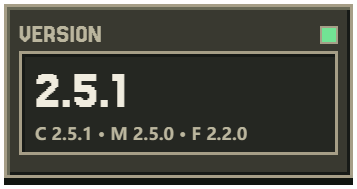
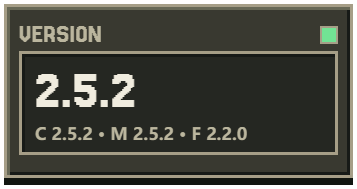
chore(release): 发布 Clash 2.5.2 与 Magpie 2.5.2

Changed region(s): [[0.3081, 0.3704, 0.4006, 0.582], [0.2157, 0.6614, 0.2773, 0.7407], [0.4622, 0.6614, 0.493, 0.7407]]

diff --git a/README.md b/README.md
@@ -12,18 +12,18 @@
 </picture>
 
 <p>
-  <a href="https://github.com/Fish-under-sea/FISH-DOCK-Plugins/releases/tag/v2.5.1"><picture><source media="(prefers-color-scheme: dark)" srcset="assets/readme/config-stat-version-zh-dark.png"><img src="assets/readme/config-stat-version-zh-light.png" alt="VERSION：2.5.1（Clash 2.5.1 / Magpie 2.5.0）" width="23%"></picture></a>
+  <a href="https://github.com/Fish-under-sea/FISH-DOCK-Plugins/releases/tag/v2.5.2"><picture><source media="(prefers-color-scheme: dark)" srcset="assets/readme/config-stat-version-zh-dark.png"><img src="assets/readme/config-stat-version-zh-light.png" alt="VERSION：2.5.2（Clash 2.5.2 / Magpie 2.5.2）" width="23%"></picture></a>
   <a href="#plugins"><picture><source media="(prefers-color-scheme: dark)" srcset="assets/readme/config-stat-desktop-zh-dark.png"><img src="assets/readme/config-stat-desktop-zh-light.png" alt="PLUGINS：三个独立插件" width="23%"></picture></a>
   <a href="#packages"><picture><source media="(prefers-color-scheme: dark)" srcset="assets/readme/config-stat-mail-zh-dark.png"><img src="assets/readme/config-stat-mail-zh-light.png" alt="PACKAGES：三个 npm 单包" width="23%"></picture></a>
   <a href="https://github.com/Fish-under-sea/FISH-Dock"><picture><source media="(prefers-color-scheme: dark)" srcset="assets/readme/config-stat-channels-zh-dark.png"><img src="assets/readme/config-stat-channels-zh-light.png" alt="HOST API：1，兼容 FISH Dock 2.0.0+" width="23%"></picture></a>
 </p>
 
-<p><img src="https://img.shields.io/badge/Node.js-24.14%2B-8fd6a0?style=flat-square&amp;logo=nodedotjs&amp;logoColor=white&amp;labelColor=5a544a" alt="Node.js 24.14+"> <img src="https://img.shields.io/badge/Adapter%20License-MIT-8fd6a0?style=flat-square&amp;labelColor=5a544a" alt="插件适配代码许可 MIT"> <img src="https://img.shields.io/badge/mihomo-GPL--3.0-f08a5d?style=flat-square&amp;labelColor=5a544a" alt="随包 mihomo 许可 GPL-3.0"> <img src="https://img.shields.io/badge/Clash-2.5.1-8fd6a0?style=flat-square&amp;labelColor=5a544a" alt="Clash 2.5.1"> <img src="https://img.shields.io/badge/Magpie-2.5.0-8fd6a0?style=flat-square&amp;labelColor=5a544a" alt="Magpie 2.5.0"></p>
+<p><img src="https://img.shields.io/badge/Node.js-24.14%2B-8fd6a0?style=flat-square&amp;logo=nodedotjs&amp;logoColor=white&amp;labelColor=5a544a" alt="Node.js 24.14+"> <img src="https://img.shields.io/badge/Adapter%20License-MIT-8fd6a0?style=flat-square&amp;labelColor=5a544a" alt="插件适配代码许可 MIT"> <img src="https://img.shields.io/badge/mihomo-GPL--3.0-f08a5d?style=flat-square&amp;labelColor=5a544a" alt="随包 mihomo 许可 GPL-3.0"> <img src="https://img.shields.io/badge/Clash-2.5.2-8fd6a0?style=flat-square&amp;labelColor=5a544a" alt="Clash 2.5.2"> <img src="https://img.shields.io/badge/Magpie-2.5.2-8fd6a0?style=flat-square&amp;labelColor=5a544a" alt="Magpie 2.5.2"></p>
 <p><strong>FISH Plugins &amp; Configuration · 插件配置仓</strong><br>官方插件、配置说明与发行入口；按需安装，独立运行。</p>
 
 <p>
   <a href="#get-started"><picture><source media="(prefers-color-scheme: dark)" srcset="assets/readme/key-download-zh-dark.png"><img src="assets/readme/key-download-zh-light.png" alt="下载 / Releases" height="40"></picture></a>
-  <a href="https://github.com/Fish-under-sea/FISH-DOCK-Plugins/releases/tag/v2.5.1"><picture><source media="(prefers-color-scheme: dark)" srcset="assets/readme/key-release-zh-dark.png"><img src="assets/readme/key-release-zh-light.png" alt="更新记录" height="40"></picture></a>
+  <a href="https://github.com/Fish-under-sea/FISH-DOCK-Plugins/releases/tag/v2.5.2"><picture><source media="(prefers-color-scheme: dark)" srcset="assets/readme/key-release-zh-dark.png"><img src="assets/readme/key-release-zh-light.png" alt="更新记录" height="40"></picture></a>
   <a href="https://github.com/Fish-under-sea/FISH-DOCK-Plugins/issues"><picture><source media="(prefers-color-scheme: dark)" srcset="assets/readme/key-issues-zh-dark.png"><img src="assets/readme/key-issues-zh-light.png" alt="反馈 / Issues" height="40"></picture></a>
 </p>
 
@@ -35,18 +35,18 @@
 
 每个插件独立保存配置与凭据，按需启动，不共享业务密钥。插件仓只发布插件资源，桌面安装包请前往 [FISH-Dock](https://github.com/Fish-under-sea/FISH-Dock) 。
 
-当前发行（以 `catalog/stable.json` 为唯一权威）：Clash **2.5.1**（内置 mihomo 1.19.34，要求 FISH Dock ≥ 2.0.0）、Magpie **2.5.0**（要求 FISH Dock ≥ 2.3.4）、飞书 **2.2.0**；详见 [2.5.1 发行说明](docs/releases/2.5.1.md) 。
+当前发行（以 `catalog/stable.json` 为唯一权威）：Clash **2.5.2**（内置 mihomo 1.19.34，要求 FISH Dock ≥ 2.0.0）、Magpie **2.5.2**（`v0.1.4709+fish.51`，要求 FISH Dock ≥ 2.3.4）、飞书 **2.2.0**；详见 [2.5.2 发行说明](docs/releases/2.5.2.md) 。
 
 **最近版本**（仅展示最近 3 版；完整历史见 [历史发行说明](docs/releases) 与 [GitHub Releases](https://github.com/Fish-under-sea/FISH-DOCK-Plugins/releases) ）
 
+- **2.5.2** · 双插件联发：Magpie（`v0.1.4709+fish.51`）追平上游并重扫 165 条液态玻璃规则；Clash 加固 Windows TUN 服务（墙钟 15s 宿主宽限 + 休眠唤醒 25s 宽限 + `sc.exe` 瞬态 `unknown` 保护 + `ProgramData` 托管内核副本按 SHA-256 免重复 UAC 重装 + 看门狗轻量 `schtasks` 注销 + 脱敏 `tmp/mihomo.log`），并全面对标 Clash Verge 优化 DNS / `gvisor` 默认栈 / 开关可控 `strict-route` / 切节点自动 `DELETE /connections` 及单订阅原生 YAML 安全白名单合并。→ [说明](docs/releases/2.5.2.md)
 - **2.5.1** · Clash 独立补丁：修复 `mihomo v1.19+` 下 `proxy-providers` 节点测速超时（合并 `/providers/proxies` 并路由至 `healthcheck`），环境变量代理默认跟随 `tun.enable` 并在切 TUN / 卸载服务 / 停机 / 意外退出时自动关闭还原，同步重构概览「网络设置」对齐与「代理模式」当前网络状态子卡。→ [说明](docs/releases/2.5.1.md)
 - **2.5.0** · Magpie（`v0.1.4650+fish.50`）追平上游并重扫 165 条玻璃表面规则，接入 Dock 液态玻璃与字体「跟随」联动，玻璃模式下顶部服务条自动透明并收敛强调色对玻璃底色的染色；Clash 内置 mihomo 升级至 `v1.19.34`，新增显式环境变量代理开关（`HTTP_PROXY` / `HTTPS_PROXY` / `NO_PROXY` 及看门狗租约还原），同步接入 Dock「跟随」并补齐深色字体单独设置。→ [说明](docs/releases/2.5.0.md)
-- **2.4.9** · Magpie（`v0.1.4530+fish.49`）追平上游并重扫 163 条液态玻璃表面规则；Clash 修复严格沙箱 CSP 下壁纸上传失败问题（改用 `createImageBitmap` 与 `FileReader` 兜底），拆分格式、解码与超限报错文案。→ [说明](docs/releases/2.4.9.md)
-- **2.4.8 及更早** · 见 [历史发行说明](docs/releases) 与 [GitHub Releases](https://github.com/Fish-under-sea/FISH-DOCK-Plugins/releases) （`docs/releases/` 历史原文全部完整保留）。
+- **2.4.9 及更早** · 见 [历史发行说明](docs/releases) 与 [GitHub Releases](https://github.com/Fish-under-sea/FISH-DOCK-Plugins/releases) （`docs/releases/` 历史原文全部完整保留）。
 
 > ⚠ **2.0.0 是 breaking 版本**：插件清单新增 `behaviors` 字段，FISH Dock 1.2.3 及更早的宿主用 `deny_unknown_fields` 解析，会以「plugin.json 格式无效或含未知字段」直接拒装。**旧宿主请先把 Dock 升到 2.0.0**，再安装这些插件。
 
-> ⚠ npm 上 `@fish-under-sea/fish-dock-plugin-clash@1.1.0` 为误发版本（基于旧基线，缺少 1.0.4 的多订阅修复），请勿使用；当前 Clash 为 `2.5.1`、Magpie 为 `2.5.0`、飞书是 `2.2.0`，OFM 停在 `2.0.1`（已退役）。
+> ⚠ npm 上 `@fish-under-sea/fish-dock-plugin-clash@1.1.0` 为误发版本（基于旧基线，缺少 1.0.4 的多订阅修复），请勿使用；当前 Clash 为 `2.5.2`、Magpie 为 `2.5.2`、飞书是 `2.2.0`，OFM 停在 `2.0.1`（已退役）。
 
 <h2 id="plugins"><picture><source media="(prefers-color-scheme: dark)" srcset="assets/readme/section-features-dark.png"><img src="assets/readme/section-features-light.png" alt="PLUGINS · 三个插件" width="100%"></picture></h2>
 
@@ -74,7 +74,7 @@
 
 <h2 id="get-started"><picture><source media="(prefers-color-scheme: dark)" srcset="assets/readme/section-install-dark.png"><img src="assets/readme/section-install-light.png" alt="INSTALL · 安装使用" width="100%"></picture></h2>
 
-安装前先核对宿主版本：Clash 是 2.5.1、Magpie 是 2.5.0（要求 FISH Dock ≥ 2.3.4）、飞书是 2.2.0，**FISH Dock 需要 2.0.0 及以上**；1.2.3 及更早的宿主会因清单里的 `behaviors` 字段拒装。
+安装前先核对宿主版本：Clash 是 2.5.2、Magpie 是 2.5.2（要求 FISH Dock ≥ 2.3.4）、飞书是 2.2.0，**FISH Dock 需要 2.0.0 及以上**；1.2.3 及更早的宿主会因清单里的 `behaviors` 字段拒装。
 
 **方式一：Dock 内插件市场（推荐）**
 
@@ -93,22 +93,22 @@
 | 插件 | GitHub 包 | npm 单包 |
 | --- | --- | --- |
 | 飞书 2.2.0 | [`feishu.fish-plugin`](https://github.com/Fish-under-sea/FISH-DOCK-Plugins/releases/download/v2.2.0/feishu.fish-plugin) | [`@fish-under-sea/fish-dock-plugin-feishu`](https://www.npmjs.com/package/@fish-under-sea/fish-dock-plugin-feishu/v/2.2.0) |
-| Clash 2.5.1 | [`clash.fish-plugin`](https://github.com/Fish-under-sea/FISH-DOCK-Plugins/releases/download/v2.5.1/clash.fish-plugin) | [`@fish-under-sea/fish-dock-plugin-clash`](https://www.npmjs.com/package/@fish-under-sea/fish-dock-plugin-clash/v/2.5.1) |
-| Magpie 2.5.0 | [`magpie.fish-plugin`](https://github.com/Fish-under-sea/FISH-DOCK-Plugins/releases/download/v2.5.0/magpie.fish-plugin) | [`@fish-under-sea/fish-dock-plugin-magpie`](https://www.npmjs.com/package/@fish-under-sea/fish-dock-plugin-magpie/v/2.5.0) |
+| Clash 2.5.2 | [`clash.fish-plugin`](https://github.com/Fish-under-sea/FISH-DOCK-Plugins/releases/download/v2.5.2/clash.fish-plugin) | [`@fish-under-sea/fish-dock-plugin-clash`](https://www.npmjs.com/package/@fish-under-sea/fish-dock-plugin-clash/v/2.5.2) |
+| Magpie 2.5.2 | [`magpie.fish-plugin`](https://github.com/Fish-under-sea/FISH-DOCK-Plugins/releases/download/v2.5.2/magpie.fish-plugin) | [`@fish-under-sea/fish-dock-plugin-magpie`](https://www.npmjs.com/package/@fish-under-sea/fish-dock-plugin-magpie/v/2.5.2) |
 
 <h2 id="packages"><picture><source media="(prefers-color-scheme: dark)" srcset="assets/readme/section-packages-dark.png"><img src="assets/readme/section-packages-light.png" alt="PACKAGES · npm 单包" width="100%"></picture></h2>
 
-每个 npm 包只包含一个对应的插件归档和下载 CLI（bin 名 `fish-dock-plugin-<插件>`），不运行安装后脚本，不修改 Dock 或系统设置。当前 npm 上 **Clash 是 2.5.1、Magpie 是 2.5.0、飞书是 2.2.0**（OFM 单包停在 2.0.1，已退役只供手动下载），要求 **Node.js ≥ 24** 与 **FISH Dock ≥ 2.0.0**。
+每个 npm 包只包含一个对应的插件归档和下载 CLI（bin 名 `fish-dock-plugin-<插件>`），不运行安装后脚本，不修改 Dock 或系统设置。当前 npm 上 **Clash 是 2.5.2、Magpie 是 2.5.2、飞书是 2.2.0**（OFM 单包停在 2.0.1，已退役只供手动下载），要求 **Node.js ≥ 24** 与 **FISH Dock ≥ 2.0.0**。
 
 | npm 单包（完整包名） | 版本 | bin | `npm pack` 体积 |
 | --- | --- | --- | --- |
 | `@fish-under-sea/fish-dock-plugin-feishu` | 2.2.0 | `fish-dock-plugin-feishu` | 38.6 kB（6 个文件） |
-| `@fish-under-sea/fish-dock-plugin-clash` | 2.5.1 | `fish-dock-plugin-clash` | 27.4 MB（7 个文件，含 mihomo 许可） |
-| `@fish-under-sea/fish-dock-plugin-magpie` | 2.5.0 | `fish-dock-plugin-magpie` | 55.3 MB（7 个文件，含 Magpie 许可） |
+| `@fish-under-sea/fish-dock-plugin-clash` | 2.5.2 | `fish-dock-plugin-clash` | 27.4 MB（7 个文件，含 mihomo 许可） |
+| `@fish-under-sea/fish-dock-plugin-magpie` | 2.5.2 | `fish-dock-plugin-magpie` | 55.9 MB（7 个文件，含 Magpie 许可） |
 | `@fish-under-sea/fish-dock-plugin-ofm` | 2.0.1（暂停维护，仅手动） | `fish-dock-plugin-ofm` | 1.9 MB（6 个文件） |
 
 ```powershell
-npm install @fish-under-sea/fish-dock-plugin-clash@2.5.1
+npm install @fish-under-sea/fish-dock-plugin-clash@2.5.2
 npx @fish-under-sea/fish-dock-plugin-clash --out C:/work/plugins
 ```
 
@@ -139,7 +139,7 @@ node --test --test-isolation=none 'plugins/feishu/*.test.mjs' 'plugins/clash/*.t
 | [自编译 Magpie](plugins/magpie/tools/README.md) | 补丁清单与每一处为什么补、构建命令、版本标识、跟着上游升级时会踩的坑 |
 | [签到&探针说明](https://github.com/Fish-under-sea/magpie-checkin-relay-probe) | 宿主提供哪些读与调用、「预装插件美化」开关怎么工作、素材为什么编进 exe |
 | [厂商素材来源](https://github.com/Fish-under-sea/magpie-checkin-relay-probe/tree/main/page/checkin/logos) | 每张厂商图的来源、裁切范围与授权状况 |
-| [发行说明](docs/releases/) | 逐版本的改动与验证；最新是 [2.5.1](docs/releases/2.5.1.md) |
+| [发行说明](docs/releases/) | 逐版本的改动与验证；最新是 [2.5.2](docs/releases/2.5.2.md) |
 | [第三方许可](THIRD_PARTY_NOTICES.md) | 随包运行时的许可与来源（mihomo 的 GPL-3.0、Magpie 的随包许可等） |
 | [README 头图维护](assets/readme/MAINTAINING.md) | 头图怎么渲染、字号与卡片尺寸的约束、哪些东西不能换 |
 
@@ -153,7 +153,7 @@ node --test --test-isolation=none 'plugins/feishu/*.test.mjs' 'plugins/clash/*.t
 
 整个 Magpie 插件的地基。供应商注册、页面与面板桥、签到与额度读取、网关路由，全部是上游的代码；本仓写着「Magpie 插件」的那层，实际上只是它的适配层、页面与发布工具。
 
-本仓发布的 `magpie.fish-plugin` 走的是**其源码自编译**：基线上游 tag（当前 `v0.1.4650`），加上 `patches/` 里我们自己的累计补丁（当前累计至 `fish.50`：追平上游 `v0.1.4650` 并重扫 165 条液态玻璃表面规则，新增 Dock 液态玻璃与字体「跟随」联动、玻璃模式下顶部服务条自动透明并收敛强调色对玻璃底色的染色，延续全页面液态玻璃与自定义字体调色命中、Obsidian 记忆 Agent 与紫色晶石图标、`magpie.call` 通道与本地素材接管等增强）。补丁的每一处、为什么补、怎么复现，都写在 [plugins/magpie/tools/README.md](plugins/magpie/tools/README.md) 里。上游的版本标识与第三方声明随包保留（`licenses/Magpie.txt`）。
+本仓发布的 `magpie.fish-plugin` 走的是**其源码自编译**：基线上游 tag（当前 `v0.1.4709`），加上 `patches/` 里我们自己的累计补丁（当前累计至 `fish.51`：追平上游 `v0.1.4709` 并重扫 165 条液态玻璃表面规则，延续 Dock 液态玻璃与字体「跟随」联动、玻璃模式下顶部服务条自动透明与强调色收敛、全页面液态玻璃与自定义字体调色命中、Obsidian 记忆 Agent 与紫色晶石图标、`magpie.call` 通道与本地素材接管等增强）。补丁的每一处、为什么补、怎么复现，都写在 [plugins/magpie/tools/README.md](plugins/magpie/tools/README.md) 里。上游的版本标识与第三方声明随包保留（`licenses/Magpie.txt`）。
 
 ### [mihomo](https://github.com/MetaCubeX/mihomo) · Clash 内核
 

diff --git a/README.en.md b/README.en.md
@@ -12,18 +12,18 @@
 </picture>
 
 <p>
-  <a href="https://github.com/Fish-under-sea/FISH-DOCK-Plugins/releases/tag/v2.5.1"><picture><source media="(prefers-color-scheme: dark)" srcset="assets/readme/config-stat-version-en-dark.png"><img src="assets/readme/config-stat-version-en-light.png" alt="VERSION: 2.5.1 (Clash 2.5.1 / Magpie 2.5.0)" width="23%"></picture></a>
+  <a href="https://github.com/Fish-under-sea/FISH-DOCK-Plugins/releases/tag/v2.5.2"><picture><source media="(prefers-color-scheme: dark)" srcset="assets/readme/config-stat-version-en-dark.png"><img src="assets/readme/config-stat-version-en-light.png" alt="VERSION: 2.5.2 (Clash 2.5.2 / Magpie 2.5.2)" width="23%"></picture></a>
   <a href="#plugins"><picture><source media="(prefers-color-scheme: dark)" srcset="assets/readme/config-stat-desktop-en-dark.png"><img src="assets/readme/config-stat-desktop-en-light.png" alt="PLUGINS: 3 independent plugins" width="23%"></picture></a>
   <a href="#packages"><picture><source media="(prefers-color-scheme: dark)" srcset="assets/readme/config-stat-mail-en-dark.png"><img src="assets/readme/config-stat-mail-en-light.png" alt="PACKAGES: 3 npm single packages" width="23%"></picture></a>
   <a href="https://github.com/Fish-under-sea/FISH-Dock"><picture><source media="(prefers-color-scheme: dark)" srcset="assets/readme/config-stat-channels-en-dark.png"><img src="assets/readme/config-stat-channels-en-light.png" alt="HOST API: 1, FISH Dock 2.0.0+" width="23%"></picture></a>
 </p>
 
-<p><img src="https://img.shields.io/badge/Node.js-24.14%2B-8fd6a0?style=flat-square&amp;logo=nodedotjs&amp;logoColor=white&amp;labelColor=5a544a" alt="Node.js 24.14+"> <img src="https://img.shields.io/badge/Adapter%20License-MIT-8fd6a0?style=flat-square&amp;labelColor=5a544a" alt="Adapter License MIT"> <img src="https://img.shields.io/badge/mihomo-GPL--3.0-f08a5d?style=flat-square&amp;labelColor=5a544a" alt="Bundled mihomo License GPL-3.0"> <img src="https://img.shields.io/badge/Clash-2.5.1-8fd6a0?style=flat-square&amp;labelColor=5a544a" alt="Clash 2.5.1"> <img src="https://img.shields.io/badge/Magpie-2.5.0-8fd6a0?style=flat-square&amp;labelColor=5a544a" alt="Magpie 2.5.0"></p>
+<p><img src="https://img.shields.io/badge/Node.js-24.14%2B-8fd6a0?style=flat-square&amp;logo=nodedotjs&amp;logoColor=white&amp;labelColor=5a544a" alt="Node.js 24.14+"> <img src="https://img.shields.io/badge/Adapter%20License-MIT-8fd6a0?style=flat-square&amp;labelColor=5a544a" alt="Adapter License MIT"> <img src="https://img.shields.io/badge/mihomo-GPL--3.0-f08a5d?style=flat-square&amp;labelColor=5a544a" alt="Bundled mihomo License GPL-3.0"> <img src="https://img.shields.io/badge/Clash-2.5.2-8fd6a0?style=flat-square&amp;labelColor=5a544a" alt="Clash 2.5.2"> <img src="https://img.shields.io/badge/Magpie-2.5.2-8fd6a0?style=flat-square&amp;labelColor=5a544a" alt="Magpie 2.5.2"></p>
 <p><strong>FISH Plugins &amp; Configuration</strong><br>Official FISH Dock plugins, configuration guides, and release packages; install on demand, isolated per plugin.</p>
 
 <p>
   <a href="#get-started"><picture><source media="(prefers-color-scheme: dark)" srcset="assets/readme/config-key-download-en-dark.png"><img src="assets/readme/config-key-download-en-light.png" alt="Downloads" height="40"></picture></a>
-  <a href="https://github.com/Fish-under-sea/FISH-DOCK-Plugins/releases/tag/v2.5.1"><picture><source media="(prefers-color-scheme: dark)" srcset="assets/readme/config-key-release-en-dark.png"><img src="assets/readme/config-key-release-en-light.png" alt="Changelog" height="40"></picture></a>
+  <a href="https://github.com/Fish-under-sea/FISH-DOCK-Plugins/releases/tag/v2.5.2"><picture><source media="(prefers-color-scheme: dark)" srcset="assets/readme/config-key-release-en-dark.png"><img src="assets/readme/config-key-release-en-light.png" alt="Changelog" height="40"></picture></a>
   <a href="https://github.com/Fish-under-sea/FISH-DOCK-Plugins/issues"><picture><source media="(prefers-color-scheme: dark)" srcset="assets/readme/config-key-issues-en-dark.png"><img src="assets/readme/config-key-issues-en-light.png" alt="Issues" height="40"></picture></a>
 </p>
 
@@ -35,18 +35,18 @@ This repository hosts the three official plugins for FISH Dock along with config
 
 Each plugin stores its configuration and credentials in an isolated namespace, starts on demand, and never shares secrets across plugins. This repository publishes plugin packages only; desktop installers live in [FISH-Dock](https://github.com/Fish-under-sea/FISH-Dock).
 
-Current release (`catalog/stable.json` is the single source of truth): Clash **2.5.1** (bundles mihomo 1.19.34, requires FISH Dock ≥ 2.0.0), Magpie **2.5.0** (requires FISH Dock ≥ 2.3.4), and Feishu **2.2.0**; see [2.5.1 Release Notes](docs/releases/2.5.1.md).
+Current release (`catalog/stable.json` is the single source of truth): Clash **2.5.2** (bundles mihomo 1.19.34, requires FISH Dock ≥ 2.0.0), Magpie **2.5.2** (`v0.1.4709+fish.51`, requires FISH Dock ≥ 2.3.4), and Feishu **2.2.0**; see [2.5.2 Release Notes](docs/releases/2.5.2.md).
 
 **Recent Releases** (showing the latest 3 releases; full history in [Release Notes](docs/releases) and [GitHub Releases](https://github.com/Fish-under-sea/FISH-DOCK-Plugins/releases))
 
+- **2.5.2** · Joint release: Magpie (`v0.1.4709+fish.51`) catches up with upstream and refreshes 165 liquid-glass surface rules; Clash hardens the Windows TUN service (wall-clock 15s host grace, 25s power-resume grace, `sc.exe` transient `unknown` protection, SHA-256-verified managed kernel copy under `ProgramData` avoiding UAC reinstalls on upgrades, lightweight `schtasks` watchdog stop, and redacted `tmp/mihomo.log`) and aligns runtime speed/config with Clash Verge (fast DNS, `gvisor` default stack, optional `strict-route`, auto `DELETE /connections` on switch, and safe allowlisted native single-subscription YAML merge). → [Notes](docs/releases/2.5.2.md)
 - **2.5.1** · Clash patch release: fixes `mihomo v1.19+` `proxy-providers` latency test timeouts (merges `/providers/proxies` and routes checks through `healthcheck`), defaults `envProxy` to `tun.enable` with automatic restore across TUN switches/uninstall/stop/service exits, and redesigns the Overview Network Settings alignment plus Proxy Mode live routing card. → [Notes](docs/releases/2.5.1.md)
 - **2.5.0** · Magpie (`v0.1.4650+fish.50`) catches up with upstream and refreshes 165 liquid-glass surface rules, adds Dock glass/font "Follow" hook integration, makes the top service bar transparent in glass mode, and stops accent color from tinting glass panels; Clash upgrades bundled mihomo to `v1.19.34`, adds an explicit user environment-proxy toggle (`HTTP_PROXY` / `HTTPS_PROXY` / `NO_PROXY` with watchdog lease restore), connects Dock "Follow" glass/font modes, and adds separate dark-mode font colors. → [Notes](docs/releases/2.5.0.md)
-- **2.4.9** · Magpie (`v0.1.4530+fish.49`) catches up with upstream and refreshes 163 liquid-glass surface rules; Clash fixes strict sandbox CSP wallpaper upload failures (switching to `createImageBitmap` with `FileReader` fallback) and splits format, decode, and size-limit error messages. → [Notes](docs/releases/2.4.9.md)
-- **2.4.8 and earlier** · See [Release Notes](docs/releases) and [GitHub Releases](https://github.com/Fish-under-sea/FISH-DOCK-Plugins/releases) (all historical release notes in `docs/releases/` remain intact).
+- **2.4.9 and earlier** · See [Release Notes](docs/releases) and [GitHub Releases](https://github.com/Fish-under-sea/FISH-DOCK-Plugins/releases) (all historical release notes in `docs/releases/` remain intact).
 
 > ⚠ **2.0.0 is a breaking release**: Plugin manifests added the `behaviors` field. FISH Dock 1.2.3 and earlier reject unknown fields during manifest parsing. **Upgrade FISH Dock to 2.0.0+ first** before installing these plugins.
 
-> ⚠ `@fish-under-sea/fish-dock-plugin-clash@1.1.0` on npm was published in error (missing the 1.0.4 multi-subscription fix) and should not be used. Current npm single packages are `2.5.1` for Clash, `2.5.0` for Magpie, `2.2.0` for Feishu, and `2.0.1` for OFM (retired).
+> ⚠ `@fish-under-sea/fish-dock-plugin-clash@1.1.0` on npm was published in error (missing the 1.0.4 multi-subscription fix) and should not be used. Current npm single packages are `2.5.2` for Clash, `2.5.2` for Magpie, `2.2.0` for Feishu, and `2.0.1` for OFM (retired).
 
 <h2 id="plugins"><picture><source media="(prefers-color-scheme: dark)" srcset="assets/readme/section-features-dark.png"><img src="assets/readme/section-features-light.png" alt="PLUGINS" width="100%"></picture></h2>
 
@@ -74,7 +74,7 @@ Local model channels and API workbench. **Maintenance paused on 2026-10-25 and r
 
 <h2 id="get-started"><picture><source media="(prefers-color-scheme: dark)" srcset="assets/readme/section-install-dark.png"><img src="assets/readme/section-install-light.png" alt="INSTALL" width="100%"></picture></h2>
 
-Check your host version first: Clash 2.5.1 and Feishu 2.2.0 require **FISH Dock ≥ 2.0.0**, while Magpie 2.5.0 requires **FISH Dock ≥ 2.3.4**. Hosts on 1.2.3 or earlier reject the `behaviors` manifest field.
+Check your host version first: Clash 2.5.2 and Feishu 2.2.0 require **FISH Dock ≥ 2.0.0**, while Magpie 2.5.2 requires **FISH Dock ≥ 2.3.4**. Hosts on 1.2.3 or earlier reject the `behaviors` manifest field.
 
 **Option 1: Dock Plugin Market (Recommended)**
 
@@ -91,8 +91,8 @@ Check your host version first: Clash 2.5.1 and Feishu 2.2.0 require **FISH Dock 
 | Plugin | GitHub Archive | npm Single Package |
 | --- | --- | --- |
 | Feishu 2.2.0 | [`feishu.fish-plugin`](https://github.com/Fish-under-sea/FISH-DOCK-Plugins/releases/download/v2.2.0/feishu.fish-plugin) | [`@fish-under-sea/fish-dock-plugin-feishu`](https://www.npmjs.com/package/@fish-under-sea/fish-dock-plugin-feishu/v/2.2.0) |
-| Clash 2.5.1 | [`clash.fish-plugin`](https://github.com/Fish-under-sea/FISH-DOCK-Plugins/releases/download/v2.5.1/clash.fish-plugin) | [`@fish-under-sea/fish-dock-plugin-clash`](https://www.npmjs.com/package/@fish-under-sea/fish-dock-plugin-clash/v/2.5.1) |
-| Magpie 2.5.0 | [`magpie.fish-plugin`](https://github.com/Fish-under-sea/FISH-DOCK-Plugins/releases/download/v2.5.0/magpie.fish-plugin) | [`@fish-under-sea/fish-dock-plugin-magpie`](https://www.npmjs.com/package/@fish-under-sea/fish-dock-plugin-magpie/v/2.5.0) |
+| Clash 2.5.2 | [`clash.fish-plugin`](https://github.com/Fish-under-sea/FISH-DOCK-Plugins/releases/download/v2.5.2/clash.fish-plugin) | [`@fish-under-sea/fish-dock-plugin-clash`](https://www.npmjs.com/package/@fish-under-sea/fish-dock-plugin-clash/v/2.5.2) |
+| Magpie 2.5.2 | [`magpie.fish-plugin`](https://github.com/Fish-under-sea/FISH-DOCK-Plugins/releases/download/v2.5.2/magpie.fish-plugin) | [`@fish-under-sea/fish-dock-plugin-magpie`](https://www.npmjs.com/package/@fish-under-sea/fish-dock-plugin-magpie/v/2.5.2) |
 
 <h2 id="packages"><picture><source media="(prefers-color-scheme: dark)" srcset="assets/readme/section-packages-dark.png"><img src="assets/readme/section-packages-light.png" alt="PACKAGES" width="100%"></picture></h2>
 
@@ -101,12 +101,12 @@ Each npm package contains a single verified `.fish-plugin` archive and its copy 
 | npm Package | Version | CLI bin | `npm pack` Size |
 | --- | --- | --- | --- |
 | `@fish-under-sea/fish-dock-plugin-feishu` | 2.2.0 | `fish-dock-plugin-feishu` | 38.6 kB (6 files) |
-| `@fish-under-sea/fish-dock-plugin-clash` | 2.5.1 | `fish-dock-plugin-clash` | 27.4 MB (7 files, incl. mihomo license) |
-| `@fish-under-sea/fish-dock-plugin-magpie` | 2.5.0 | `fish-dock-plugin-magpie` | 55.3 MB (7 files, incl. Magpie license) |
+| `@fish-under-sea/fish-dock-plugin-clash` | 2.5.2 | `fish-dock-plugin-clash` | 27.4 MB (7 files, incl. mihomo license) |
+| `@fish-under-sea/fish-dock-plugin-magpie` | 2.5.2 | `fish-dock-plugin-magpie` | 55.9 MB (7 files, incl. Magpie license) |
 | `@fish-under-sea/fish-dock-plugin-ofm` | 2.0.1 (retired, manual only) | `fish-dock-plugin-ofm` | 1.9 MB (6 files) |
 
 ```powershell
-npm install @fish-under-sea/fish-dock-plugin-clash@2.5.1
+npm install @fish-under-sea/fish-dock-plugin-clash@2.5.2
 npx @fish-under-sea/fish-dock-plugin-clash --out C:/work/plugins
 ```
 
@@ -137,7 +137,7 @@ Reference docs live alongside code (currently written in Chinese):
 | [Self-Built Magpie Guide](plugins/magpie/tools/README.md) | Patch manifest, build commands, version tags, and upstream rebase notes |
 | [Check-in & Relay Probe](https://github.com/Fish-under-sea/magpie-checkin-relay-probe) | Host read/call bridge, preinstalled plugin styling switch, and embedded logos |
 | [Provider Logo Sources](https://github.com/Fish-under-sea/magpie-checkin-relay-probe/tree/main/page/checkin/logos) | Attribution, cropping, and licensing for each vendor asset |
-| [Release Notes](docs/releases/) | Per-version changelogs and verification records; latest is [2.5.1](docs/releases/2.5.1.md) |
+| [Release Notes](docs/releases/) | Per-version changelogs and verification records; latest is [2.5.2](docs/releases/2.5.2.md) |
 | [Third-Party Notices](THIRD_PARTY_NOTICES.md) | Licenses and checksums for bundled runtimes (mihomo GPL-3.0, Magpie MIT, etc.) |
 | [README Header Maintenance](assets/readme/MAINTAINING.md) | Header rendering pipeline, typography constraints, and asset rules |
 
@@ -147,7 +147,7 @@ These upstream projects power the plugins in this repository:
 
 ### [Magpie](https://github.com/yetone/magpie) · Model Gateway & Plugin Host
 
-The foundation behind the Magpie plugin—provider registration, panel bridge, check-in/quota reading, and gateway routing all come from upstream. The `magpie.fish-plugin` archive bundles a **self-compiled build** from upstream tag `v0.1.4650` plus our cumulative patch `fish.50` (Dock glass/font follow hook, transparent top bar in glass mode, accent-decoupled glass panels, 165 refreshed glass surface rules, Obsidian Memory Agent, and `magpie.call` bridge). Full patch documentation lives in [plugins/magpie/tools/README.md](plugins/magpie/tools/README.md), with upstream attribution retained in `licenses/Magpie.txt`.
+The foundation behind the Magpie plugin—provider registration, panel bridge, check-in/quota reading, and gateway routing all come from upstream. The `magpie.fish-plugin` archive bundles a **self-compiled build** from upstream tag `v0.1.4709` plus our cumulative patch `fish.51` (upstream catch-up, 165 refreshed glass surface rules, Dock glass/font follow hook, transparent top bar in glass mode, accent-decoupled glass panels, Obsidian Memory Agent, and `magpie.call` bridge). Full patch documentation lives in [plugins/magpie/tools/README.md](plugins/magpie/tools/README.md), with upstream attribution retained in `licenses/Magpie.txt`.
 
 ### [mihomo](https://github.com/MetaCubeX/mihomo) · Clash Core
 

diff --git a/docs/releases/2.5.2.md b/docs/releases/2.5.2.md
@@ -1,0 +1,55 @@
+# 2.5.2 发行说明
+
+**Clash** 与 **Magpie** 双插件同步升级到 **2.5.2**（注：旧标签 `v2.4.2` 已占用，本次双插件按主线递增至 `2.5.2`）：**Magpie** 追平上游 `yetone/magpie` 至 **`v0.1.4709+fish.51`**（要求 FISH Dock ≥ 2.3.4）；**Clash** 全面加固 Windows TUN 服务稳定性、托管内核副本与看门狗轻量注销，并逐项对标 Clash Verge 重构 DNS / TUN / 订阅原生分流合并与连接清理（要求 FISH Dock ≥ 2.0.0）；**飞书**保持 `2.2.0` 不变。
+
+## 本版更新
+
+### Magpie 2.5.2（`v0.1.4709+fish.51`）
+
+- **追平上游 `v0.1.4709`**（相对 `v0.1.4650` 共 59 个上游 tag）：
+  - 导出累计补丁 `plugins/magpie/patches/magpie-v0.1.4709+fish.51.patch`（`1,650,395` 字节），在全新上游源码树上实现 **254 文件 / 452 hunk 零冲突重放**，悬空引用闸门（`check-assets-refs.mjs`）与密钥字面量扫描全部通过；
+  - 解决 `navicons.js` 与 `core_budget_test.go` 两处冲突并保留设置页「外观」图标；`glass-surfaces.mjs` 重扫 **165 条**液态玻璃表面规则（`--card=129` / `--card-2=34` / `--bg=2`），同步更新 `core_budget_test.go` 实测脚本预算（`appScriptBudget = 1_099_860`、`coreScriptBudget = 1_287_215`）；
+  - 自编译产出 `magpie-windows-amd64.exe`（`v0.1.4709+fish.51` / `FileVersion=0.1.4709.51` / `ProductName=magpie fish`）。
+
+### Clash 2.5.2（服务防断链 + 对标 Clash Verge 速度与配置重构）
+
+- **加固 Windows TUN 服务防假断链与休眠恢复**（`plugins/clash/service/tun-service.cs` / `tun-service.exe`、`plugins/clash/tun.mjs`、`plugins/clash/service.mjs`）：
+  - `tun-service.cs` 将宿主失联判定从「触发计数」改为**真实墙钟计时（15 秒宽限）**，`FileSystemWatcher` 文件事件仅执行 `Tick(false)` 不再提前推进失联计时；新增 `OnPowerEvent` 电源唤醒与时钟跳变检测，休眠恢复后自动给予 **25 秒宽限**，彻底消除休眠唤醒或短时卡顿导致的 `host is gone` 误断链；
+  - `tun.mjs` 区分 `sc.exe` 真正的 `1060` 未安装与瞬态查询失败（改报 `unknown` 而非伪装 `absent`），并为 `status()` 增加 2.5 秒 TTL 缓存与并发合并；`service.mjs` 在 `view()` 判死前忽略 `unknown` 并增加 `/version` 探活与 30 秒周期租约续期；
+  - `tun.mjs` 安装服务时将 `mihomo.exe` 复制为稳定托管副本 `C:\ProgramData\FishDock\clash-tun\mihomo.exe`（Users 只读 ACL）并在 `service.ini` 记录 `kernelSha256`，`runtime.mjs` 优先按 SHA-256 比对内核一致性——插件升级（只要 `mihomo` 版本不变）不再强制触发 `TUN_KERNEL_MISMATCH` 与重复 UAC 重装。
+- **看门狗轻量注销与内核日志落盘**（`plugins/clash/watchdog-task.mjs`、`plugins/clash/runtime.mjs`、`plugins/clash/service/tun-service.cs`）：
+  - 看门狗 `stop()` 优先调用原生轻量 `schtasks /Delete /TN <name> /F`（自动兼容中文 Windows GBK 错误输出，静默容忍任务不存在与关机/Job 销毁瞬间的 `0xC0000142` 中断），避免停机阶段拉起 `pwsh.exe` 超时；
+  - 用户环境变量读取优先走 `reg.exe query HKCU\Environment`（失败回退 `pwsh`，超时放宽至 10 秒）；
+  - 普通模式与 TUN 服务模式统一捕获 `mihomo` 的 `stdout` / `stderr`（脱敏 `secret` / `Bearer`），按 512 KiB 自动轮转写入 `tmp/mihomo.log`，便于排障定位。
+- **逐项对标 Clash Verge 优化节点速度与订阅原生分流**（`plugins/clash/runtime.mjs`、`plugins/clash/service.mjs`、`plugins/clash/page.js`）：
+  - **DNS 与连接性能**：默认 `dns.respect-rules: false`、`dns.fallback: []`（避免海外域名解析绕行代理与多路并发查询拖慢首包），新增 `profile.store-fake-ip: true`，移除硬编码 `keep-alive-idle: 15`，并将内置 `url-test` / `fallback` 调整为 `lazy: true` + `interval: 300`（防止高频并发测速触发机场限流）；
+  - **TUN 默认参数**：默认栈调整为 `gvisor`，默认关闭 `strict-route`（与 Clash Verge 默认一致），并在「内核设置」页提供「严格路由 strict-route」开关；
+  - **切换立即生效**：`select()` 切换节点与 `mode()` 切换模式后自动调用 `DELETE /connections` 断开旧连接（对标 Verge `auto_close_connection`），防止长连接滞留慢节点；
+  - **方案 B1 单订阅原生 YAML 安全白名单合并**：新增「订阅配置策略」设置（默认「订阅原生分流（优先，对标 Clash Verge）」，可随时切回「内置分流规则」）。单条完整订阅保留原生 `proxies`、`proxy-groups`、经路径收敛（`./ruleset/<safe>-<idx>.yaml`）的 `http` `rule-providers` 与 `rules`，同时强制剥离订阅中的端口、`allow-lan`、`external-controller`、`secret`、`dns`、`tun` 与危险 `type: file` 规则集；纯节点订阅、多订阅或遇未定义锚点/缺 geo 时平滑回落内置分流；同步增强 `resolveLeaf()` 与概览路由识别以原生兼容任意订阅主组名。
+
+## 下载与校验
+
+| 产物 | 大小 | SHA-256 |
+| --- | --- | --- |
[4 lines of base64/hex data omitted]
+
+- npm 单包：
+  - `@fish-under-sea/fish-dock-plugin-clash@2.5.2`（压缩后 `27.4 MB`，解包 `27.8 MB`，7 个文件）
+  - `@fish-under-sea/fish-dock-plugin-magpie@2.5.2`（压缩后 `55.9 MB`，解包 `56.0 MB`，7 个文件）
+- 完整工具校验与归档 SHA-256 见当次 Release 的 `SHA256SUMS.txt` 与 `catalog/stable.json`。
+
+## 验证记录
+
+- **Magpie `v0.1.4709+fish.51` 源码树验证**：
+  - 全新上游树重放 `magpie-v0.1.4709+fish.51.patch` 254 文件 / 452 hunk 零冲突，新鲜度闸门通过（0h / 1 tag），`check-assets-refs.mjs` 悬空引用检查通过，25 个修改/新增 JS 文件 `node --check` 通过，`fish-glass.test.cjs` **8/8 通过**；
+  - `go build ./...` 通过；`go test -count=1 ./internal/memagent ./internal/memory ./internal/fishvault ./internal/relay ./internal/settingsapi` 全部通过；`go test -count=1 ./internal/settings -skip TestSharedCheckedReadsOnceAndKnowsUnknown` 通过（跳过 Windows `filememo` 2 秒时序已知偶发项）；`go test -count=1 ./internal/gui -run 'TestCoreScriptBudget|TestFishGlass|TestMemoryAgent|TestAccent|TestWallpaper|TestLook|TestPluginPageCall|TestObsidian'` **16/16 通过**。
+- **Clash 测试套件（含真实 `mihomo v1.19.34` 原生回归）**：
+  - `node --test plugins/clash/{runtime,tun,service,watchdog-task,page,native,subscriptions,appearance,backend-wiring}.test.mjs` **213/213 通过**（0 失败 / 0 跳过），覆盖 B1 订阅原生合并、SHA-256 内核校验、TUN 瞬态 `unknown` 保护、`DELETE /connections`、`schtasks` GBK 容错与脱敏 `mihomo.log`；
+  - 使用本机 3 份真实订阅缓存（35 KB / 37 KB / 211 KB）干跑 `mergeSubscriptionYaml` + `mihomo v1.19.34 -t`，全部在 46–70 ms 内校验通过；
+  - Edge + Playwright 真实浏览器回归 `page.browser.test.mjs` 中「严格 CSP」与「Dock Glass Follow」**2/2 通过**（用例 1 因历史遗留 `#group-pick option` 旧选择器断言未运行）。
+- **其余仓内测试与发行物校验**：
+  - `shared/*.test.mjs`、`plugins/feishu/*.test.mjs`、`plugins/magpie/*.test.mjs`、`tools/*.test.mjs` 与 `plugins/magpie/obsidian-plugin/*.test.cjs` **195 通过 / 0 失败 / 4 跳过**（依赖外部 `FISH_MAGPIE_EXE` 与宿主 SDK）；
+  - 双包 `verify-release.mjs`（逐资源 SHA-256 + `.mjs` 语法门 + npm 字节一致性）与 Node 22 `npm pack --dry-run` 全部通过。

diff --git a/docs/maintainers/README.md b/docs/maintainers/README.md
@@ -1,8 +1,8 @@
 # 插件维护者指南
 
-2.0.0 把当时的四个官方插件一起升到大版本：飞书、Clash、Magpie、OFM 全部 2.0.0，配套 FISH Dock 2.0.0+。作者改为数组、维护者字段整体去掉。OFM 已于 2026-10-25 暂停维护，2.3.0 起从官方目录与活动构建链退役，历史适配层见 [docs/archive/ofm](../archive/ofm/README.md) 。Magpie 随包的原生服务早已不是官方版：2.0.1 起是**源码自编译**（基线上游 tag 加我们自己的补丁，当前 `v0.1.4650+fish.50`），原因与补丁清单见 [自编译说明](../../plugins/magpie/tools/README.md) 。
+2.0.0 把当时的四个官方插件一起升到大版本：飞书、Clash、Magpie、OFM 全部 2.0.0，配套 FISH Dock 2.0.0+。作者改为数组、维护者字段整体去掉。OFM 已于 2026-10-25 暂停维护，2.3.0 起从官方目录与活动构建链退役，历史适配层见 [docs/archive/ofm](../archive/ofm/README.md) 。Magpie 随包的原生服务早已不是官方版：2.0.1 起是**源码自编译**（基线上游 tag 加我们自己的补丁，当前 `v0.1.4709+fish.51`），原因与补丁清单见 [自编译说明](../../plugins/magpie/tools/README.md) 。
 
-**当前版本**（以 `catalog/stable.json` 为唯一权威）：飞书 **2.2.0**、Clash **2.5.1**、Magpie **2.5.0**（原生 `v0.1.4650+fish.50`，完整变更见 [2.5.1 发行说明](../releases/2.5.1.md) 与 [2.5.0 发行说明](../releases/2.5.0.md) ）。发行走 `v2.x.y` 之类的总 tag，一个 release 里放当次要发的包——不必三插件同版。发行工具生成标准 ZIP 插件包、逐资源 SHA-256、商店目录及总摘要；桌面安装器与业务插件分别在各自仓库发布。
+**当前版本**（以 `catalog/stable.json` 为唯一权威）：飞书 **2.2.0**、Clash **2.5.2**、Magpie **2.5.2**（原生 `v0.1.4709+fish.51`，完整变更见 [2.5.2 发行说明](../releases/2.5.2.md) ）。发行走 `v2.x.y` 之类的总 tag，一个 release 里放当次要发的包——不必三插件同版。发行工具生成标准 ZIP 插件包、逐资源 SHA-256、商店目录及总摘要；桌面安装器与业务插件分别在各自仓库发布。
 
 ## 身份表
 
@@ -28,7 +28,7 @@
 
 | 资源 | 当前开发验证来源 | 处理方式 |
 | --- | --- | --- |
-| Magpie | `yetone/magpie`，基线 `v0.1.4650`，按 [自编译说明](../../plugins/magpie/tools/README.md) 加 `patches/` 最新补丁自行构建（版本标识 `v0.1.4650+fish.50` / FileVersion `0.1.4650.50`） | 独立进程；逐文件摘要记录于插件清单 |
+| Magpie | `yetone/magpie`，基线 `v0.1.4709`，按 [自编译说明](../../plugins/magpie/tools/README.md) 加 `patches/` 最新补丁自行构建（版本标识 `v0.1.4709+fish.51` / FileVersion `0.1.4709.51`） | 独立进程；逐文件摘要记录于插件清单 |
 | mihomo | v1.19.34，`mihomo-windows-amd64-compatible-v1.19.34.zip` | 校验下载后暂存可执行文件，首次按需启动 |
 | Node SDK | 同版 Dock 仓的 `sdk/node/plugin.mjs` | 复制到各插件，与宿主 API 1 联调 |
 
